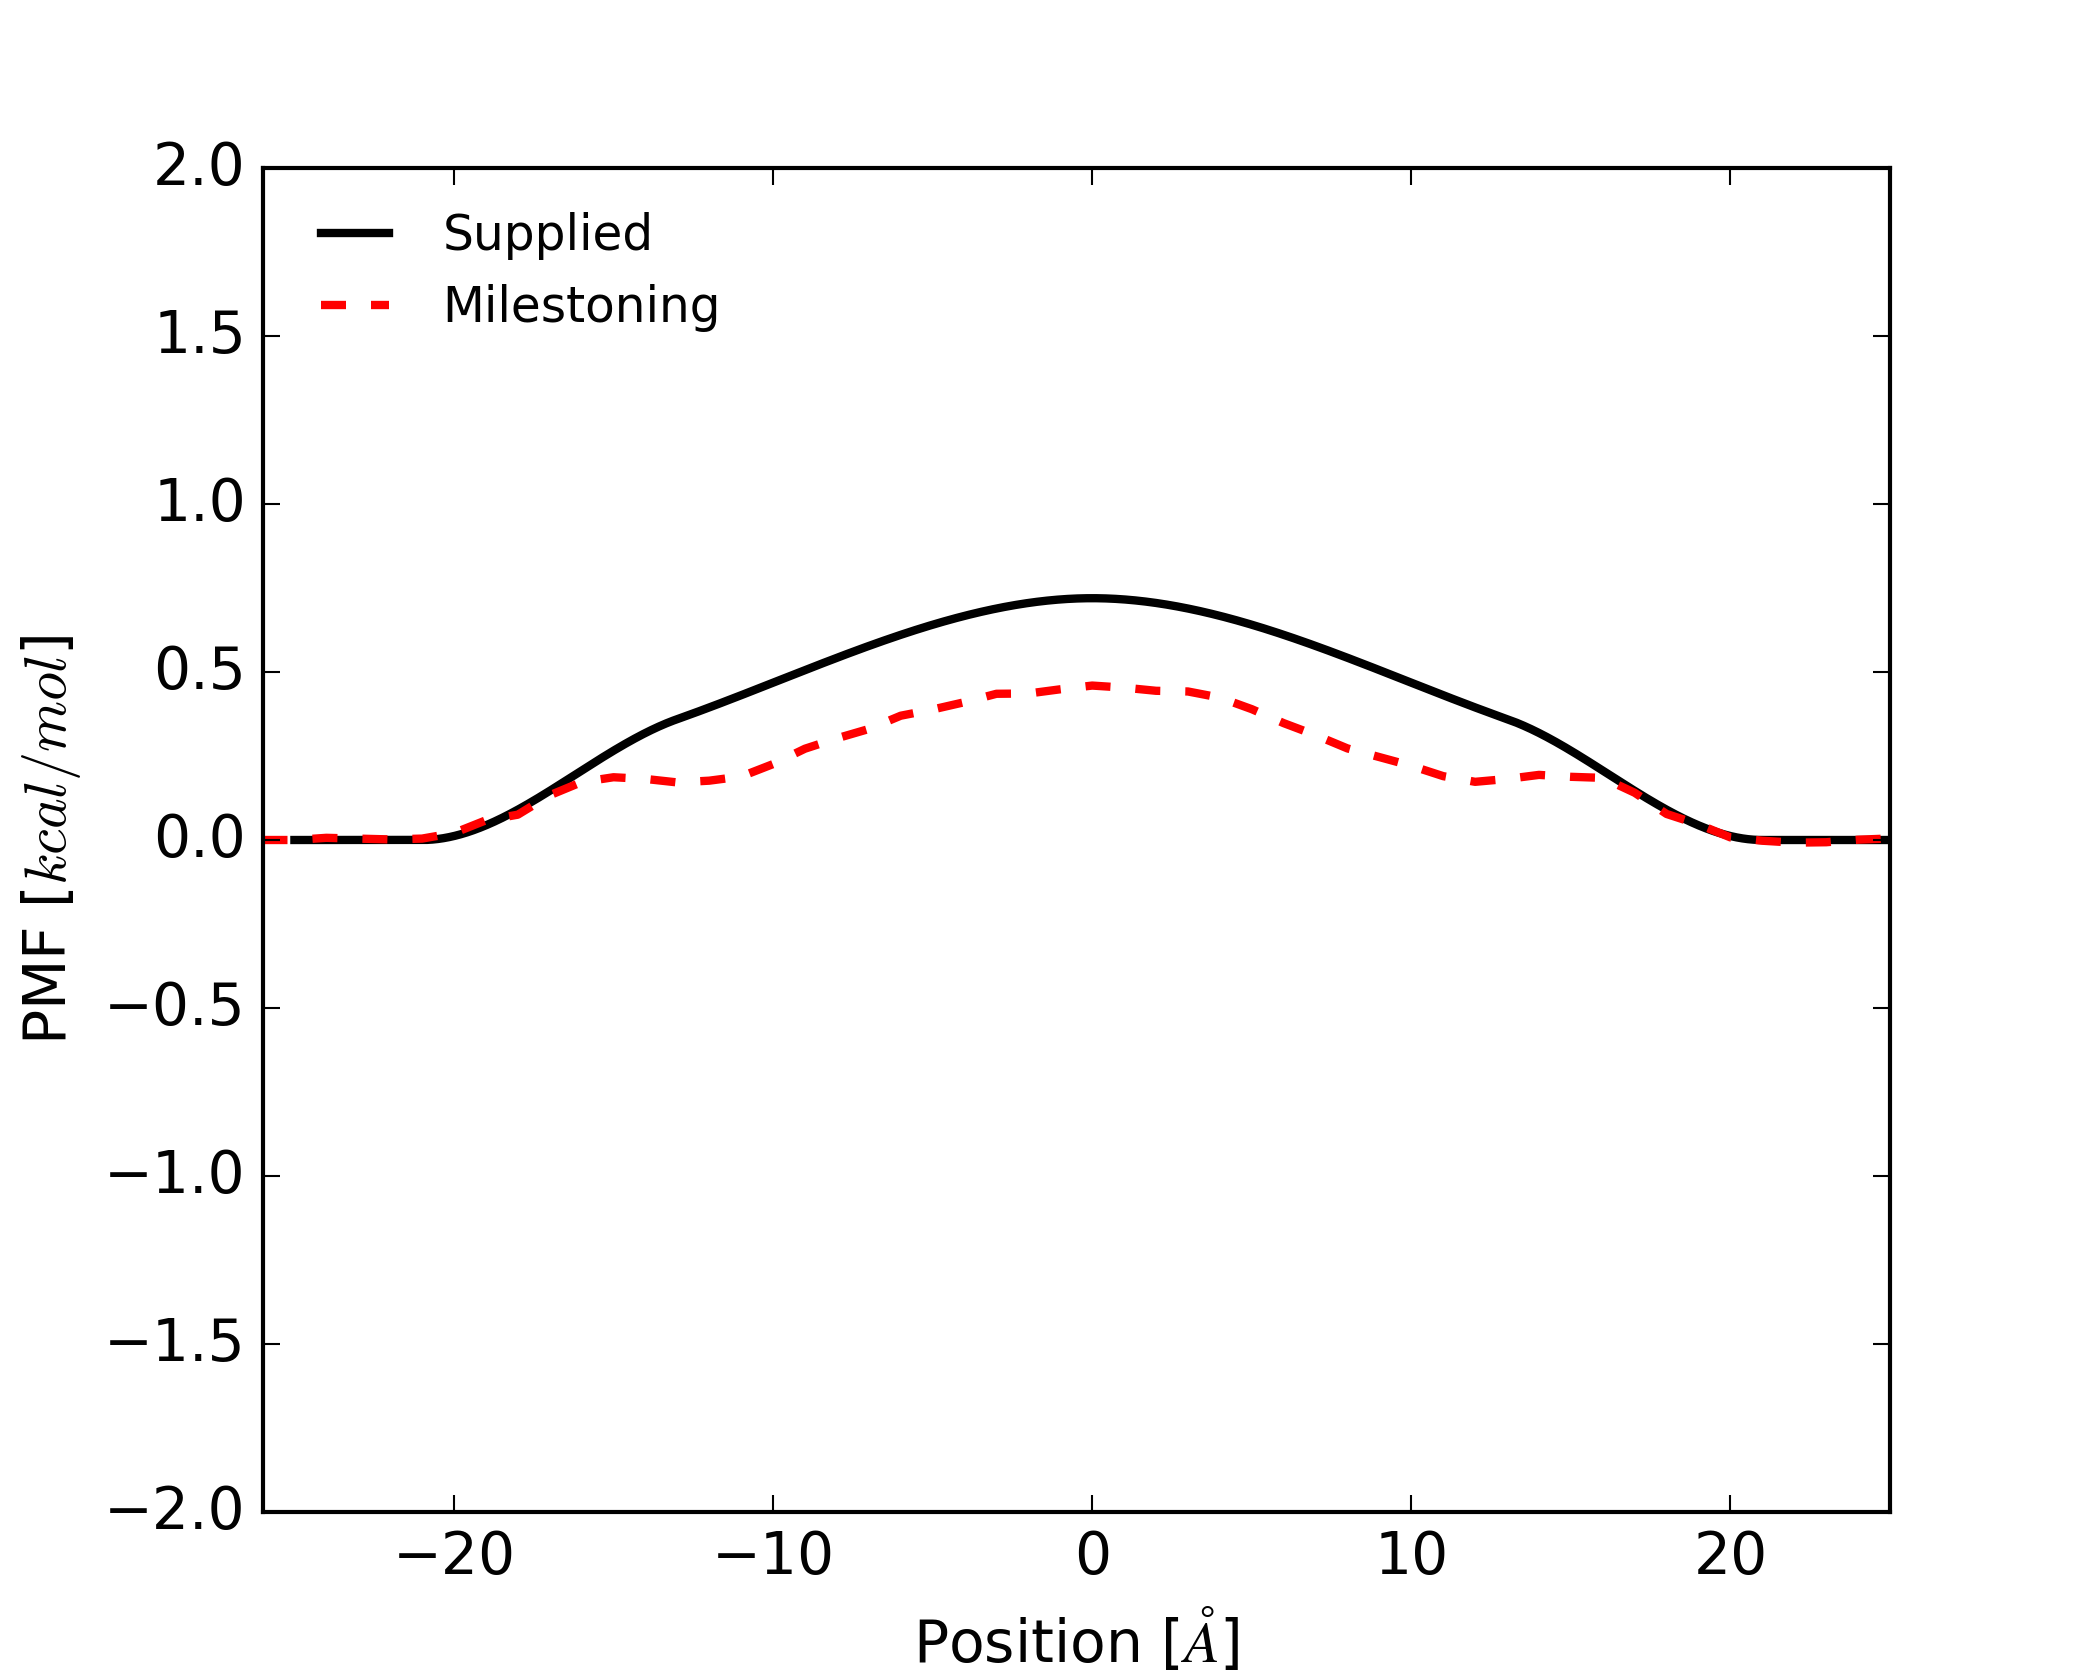
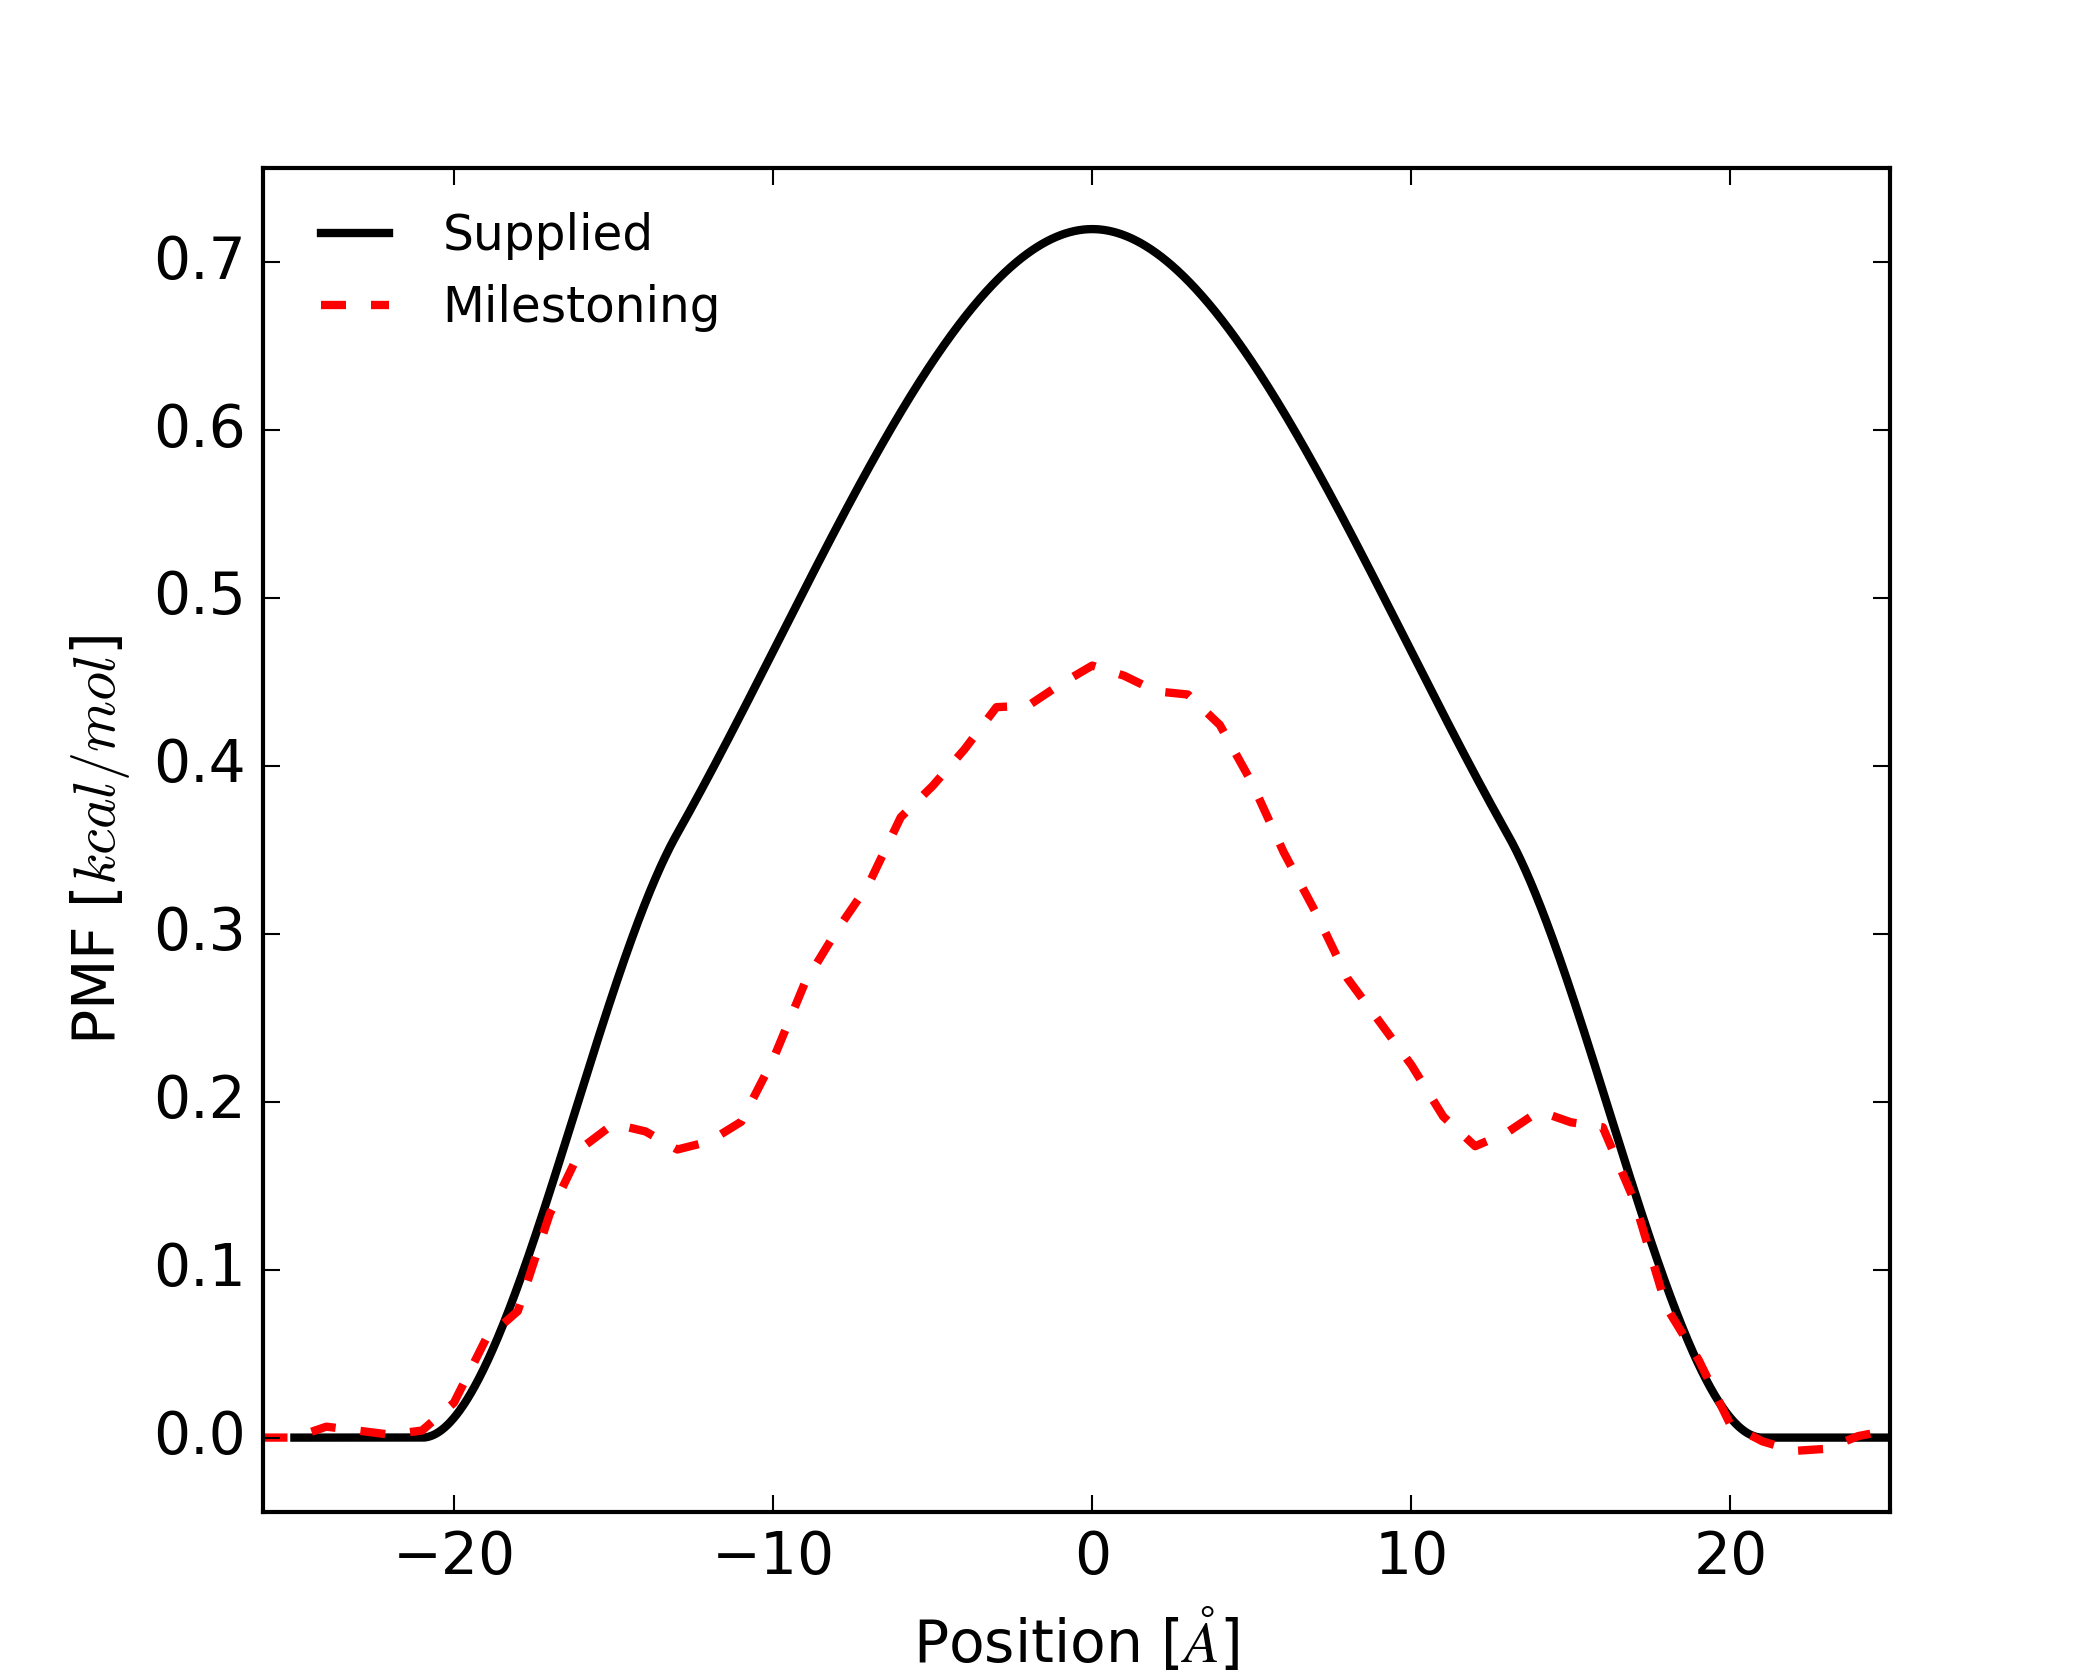
Updating initial q dists

diff --git a/permeability.py b/permeability.py
@@ -596,7 +596,7 @@ def processMilestones(system, milestones, prefix='datasets/'):
 
 
     I = np.identity(N)
- 
+
     ########################################
     #    Plot the Transitions              #
     ########################################
@@ -638,9 +638,11 @@ def processMilestones(system, milestones, prefix='datasets/'):
     plt.tight_layout()
     fig.savefig('figures/%s_transitions.png'%(system.name), dpi=300)
     plt.close('all')
-
-    mfpts, rhos, P_MFPTs, P_PBCPs = resample(transCount, lifetimes, system, milestones)
     
+    mfpts, rhos, P_MFPTs, P_PBCPs = resample(transCount, lifetimes, system, milestones)
+    print "Generated %d resamples"%(len(P_PBCPs))
+    print P_MFPTs
+    print P_PBCPs
     # Setup initial flux
     q = np.zeros(N)
     q[0] = 0.5
@@ -671,7 +673,8 @@ def processMilestones(system, milestones, prefix='datasets/'):
     tabsorb[0, N-1] = 0
 
     q = np.zeros((N,1))
-    q[0,0] = 1
+    q[0,0] = 0.5
+    q[0,1] = 0.5
     K[N-1] = 0
     aux = LA.solve(I-K, tabsorb.T);
     mfpt = q.T.dot(aux)
@@ -718,10 +721,31 @@ def processMilestones(system, milestones, prefix='datasets/'):
     K[0,1] = 0.5
     K[0,N-1] = 0.5
 
+    """
+    for row in np.arange(0,N,1):
+        #print row, rowSum[row]
+        if row == 0:
+            #print transCount[row, row], transCount[row,row+1]
+            # this row is artificially sampled
+            reverseCount[row] = 0
+            forwardCount[row] = 0
+        elif row == 1:
+            reverseCount[row] = 0
+            forwardCount[row] = transCount[row, row+1]
+        elif row == N-1:
+            #print transCount[row, row-1], transCount[row, row]
+            reverseCount[row] = transCount[row, row-1]
+            forwardCount[row] = 0
+        else:
+            #print transCount[row,row-1], transCount[row, row], transCount[row,row+1]
+            reverseCount[row] = transCount[row, row-1]
+            forwardCount[row] = transCount[row, row+1]
+    """
     # Setup initial flux
     q = np.zeros(N)
     q[0] = 0.5
-    q[1] = 0.5 
+    q[1] = 0.5
+
     w, vl= LA.eig(K, left=True, right=False)
     if w[-1].real == 1:
         qstat = vl[:,-1].real    # Get first column
@@ -743,7 +767,6 @@ def processMilestones(system, milestones, prefix='datasets/'):
     pstat = pstat/pstat[0,0] # set first point to 0
     
     Pdamped = np.trapz(pstat, milestones)/(2*mfpt) * 1e-8 # A/s -> cm/s
-    dpstd = np.std(P_MFPTs)
     Phigh = Pdamped + dpstd
     Plow = Pdamped - dpstd
     if Plow < 0:
@@ -775,7 +798,9 @@ def processMilestones(system, milestones, prefix='datasets/'):
     ax1.margins(0,0.05)
     if system.name == 'flat':
         ax1.set_ylim([-2,2])
+    """
     if system.name == 'smallhill':
         ax1.set_ylim([-2,2])
+    """
     fig.savefig('figures/%s_pmf_calc.png'%(system.name), dpi=300)
     plt.close('all')

diff --git a/markov.py b/markov.py
@@ -108,7 +108,7 @@ def resample(transCount, lifetimes, system, milestones):
     dampedPs = []
     nondampedPs = []
     Qsamples = monte_carlo_milestoning_nonreversible_error(transCount, lifetimes.T, 
-            num=1, skip=100)
+            num=1000, skip=100)
    
     I = np.identity(N)
 
@@ -117,6 +117,16 @@ def resample(transCount, lifetimes, system, milestones):
         K = K.T
         lifetimes = lifetimes.T
 
+
+        for row in np.arange(0,N,1):
+            #print row, rowSum[row]
+            if row == 0:
+                print K[row, row], K[row,row+1]
+            elif row == N-1:
+                print K[row, row-1], K[row, row]
+            else:
+                print K[row,row-1], K[row, row], K[row,row+1]
+        
         q = np.zeros(N)
         q[0] = 0.5
         q[1] = 0.5
@@ -136,7 +146,8 @@ def resample(transCount, lifetimes, system, milestones):
         tabsorb[0,N-1] = 0
 
         q = np.zeros((N,1))
-        q[0,0] = 1
+        q[0,0] = 0.5
+        q[0,1] = 0.5
         K[N-1] = 0
         aux = LA.solve(I-K, tabsorb.T);
         mfpt = q.T.dot(aux)

diff --git a/driver.py b/driver.py
@@ -113,8 +113,8 @@ if __name__ == '__main__':
     """
     #perm.processBrute(system)
 
-    perm.milestoneMP(system, milestones, numSims = 10000, 
-            length = 1e-4, dt = 1e-15, cOpt = cOpt, focus=[11,12,13,37,38,39])
+    perm.milestoneMP(system, milestones, numSims = 5000, 
+            length = 1e-4, dt = 1e-15, cOpt = cOpt)
     #perm.processMilestones(system, milestones)
     print '\n\n'
 

diff --git a/runAnalysis.py b/runAnalysis.py
@@ -10,8 +10,8 @@ logging.basicConfig(level=logging.INFO,
         format='[%(levelname)s] %(process)d %(processName)s: %(message)s')
 """
 
-#systems = ['flat', 'smallhill', 'urea', 'codeine']
-systems = ['smallhill']
+systems = ['flat', 'smallhill', 'urea', 'codeine']
+#systems = ['smallhill']
 
 prefix = 'datasets/'
 for sys in systems:
